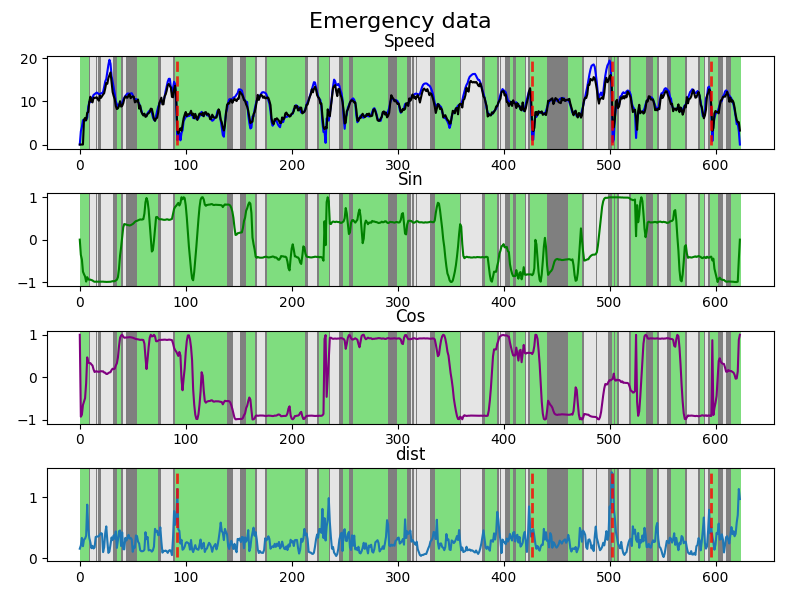
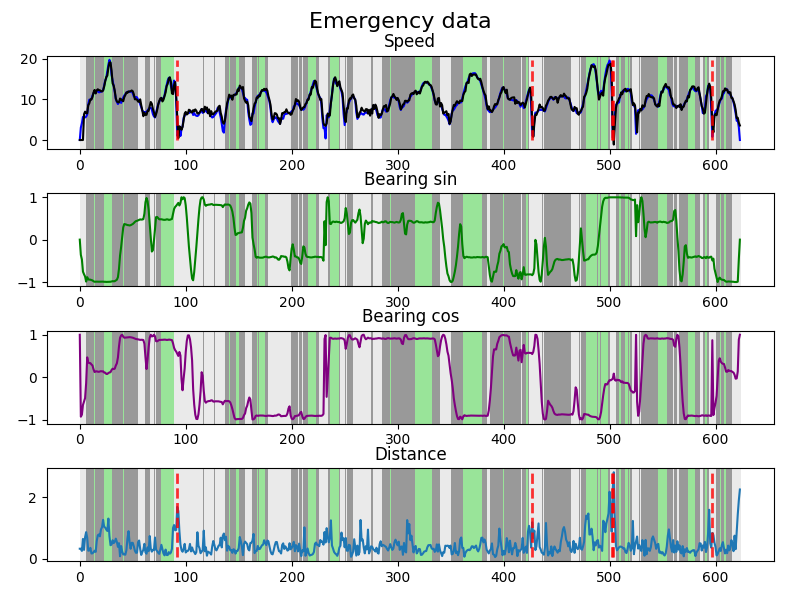
supervised doc

diff --git a/Utils.py b/Utils.py
@@ -19,9 +19,9 @@ def plotCsv(data, title, pred=None, labels=None, dist=None, accident_indexs=None
 
     ax[0].set_title("Speed")
     ax[0].plot(data["Speed"], color="b")
-    ax[1].set_title("Sin")
+    ax[1].set_title("Bearing sin")
     ax[1].plot(np.sin(np.pi * data["Bearing"] / 180.0), color="g")
-    ax[2].set_title("Cos")
+    ax[2].set_title("Bearing cos")
     ax[2].plot(np.cos(np.pi * data["Bearing"] / 180.0), color="purple")
 
     if pred is not None:
@@ -31,14 +31,14 @@ def plotCsv(data, title, pred=None, labels=None, dist=None, accident_indexs=None
 
         colors = cm.nipy_spectral(np.linspace(0, 1, max(labels) + 1))
 
-        ax[3].set_title("dist")
+        ax[3].set_title("Distance")
         ax[3].plot(dist)
 
         for i in range(len(labels)):
-            ax[0].axvspan(i, i + 1, facecolor=colors[labels[i]], alpha=0.5)
-            ax[1].axvspan(i, i + 1, facecolor=colors[labels[i]], alpha=0.5)
-            ax[2].axvspan(i, i + 1, facecolor=colors[labels[i]], alpha=0.5)
-            ax[3].axvspan(i, i + 1, facecolor=colors[labels[i]], alpha=0.5)
+            ax[0].axvspan(i, i + 1, facecolor=colors[labels[i]], alpha=0.4)
+            ax[1].axvspan(i, i + 1, facecolor=colors[labels[i]], alpha=0.4)
+            ax[2].axvspan(i, i + 1, facecolor=colors[labels[i]], alpha=0.4)
+            ax[3].axvspan(i, i + 1, facecolor=colors[labels[i]], alpha=0.4)
 
     if accident_indexs is not None:
         ax[0].vlines(
@@ -58,6 +58,41 @@ def plotCsv(data, title, pred=None, labels=None, dist=None, accident_indexs=None
             linestyles=["dashed"],
             linewidth=2,
             alpha=0.8,
+        )
+
+
+def plotGT(normal_data, emg_data, title, normal_accident, emg_accident):
+
+    f, ax = plt.subplots(2, 1, figsize=(8, 6))
+    f.suptitle(title, fontsize=16)
+
+    f.tight_layout()
+
+    ax[0].set_title("Normal Speed")
+    ax[0].plot(normal_data["Speed"], color="b")
+    ax[1].set_title("Emergency Speed")
+    ax[1].plot(emg_data["Speed"], color="b")
+
+    if normal_accident is not None:
+        ax[0].vlines(
+            normal_accident,
+            ymin=np.min(normal_data["Speed"]),
+            ymax=np.max(normal_data["Speed"]),
+            color="r",
+            linestyles=["dashed"],
+            linewidth=2,
+            alpha=0.9,
+        )
+
+    if emg_accident is not None:
+        ax[1].vlines(
+            emg_accident,
+            ymin=np.min(emg_data["Speed"]),
+            ymax=np.max(emg_data["Speed"]),
+            color="r",
+            linestyles=["dashed"],
+            linewidth=2,
+            alpha=0.9,
         )
 
 

diff --git a/Dataloader.py b/Dataloader.py
@@ -143,7 +143,7 @@ class Unsupervised(data.Dataset):
 
 
 class Supervised(data.Dataset):
-    def __init__(self, data, accidents_index, append_size=2, max_conv_size=7):
+    def __init__(self, data, accidents_index, append_size=2, max_conv_size=7, max_index=550):
         """creates the array to the window sized sampling
 
         Args:
@@ -151,6 +151,7 @@ class Supervised(data.Dataset):
             accidents_index: array with the detected accidents indexs
             append_size: size to 'expand' accident
             max_conv_size (int, optional): window size. Defaults to 7.
+            max_index (int, optional): index where to split the data
 
         """
 
@@ -163,9 +164,9 @@ class Supervised(data.Dataset):
 
         self.conv_size = max_conv_size
 
-        self.speed = np.array(data["Speed"][:550], dtype=float)
-        self.cos = np.cos(np.array(data["Bearing"][:550], dtype=float))
-        self.sin = np.sin(np.array(data["Bearing"][:550], dtype=float))
+        self.speed = np.array(data["Speed"][:max_index], dtype=float)
+        self.cos = np.cos(np.array(data["Bearing"][:max_index], dtype=float))
+        self.sin = np.sin(np.array(data["Bearing"][:max_index], dtype=float))
 
         self.len = len(self.speed)
 

diff --git a/Model.py b/Model.py
@@ -19,8 +19,8 @@ class Traj_enc(nn.Module):
         self.combined_c = nn.Conv1d(30, 40, kernel_size=3)
         self.combined_bn = nn.BatchNorm1d(40)
 
-        self.enc_fc = nn.Linear(40, 10)
-        self.out_bn = nn.BatchNorm1d(10)
+        self.enc_fc = nn.Linear(40, 20)
+        self.out_bn = nn.BatchNorm1d(20)
 
     def forward(self, speed, sin, cos):
         speed = self.speed_c1(speed)
@@ -44,7 +44,6 @@ class Traj_enc(nn.Module):
         combined = combined.view(-1, 40)
         out = self.enc_fc(combined)
         out = self.out_bn(out)
-        # out = self.relu(out)
 
         return out
 
@@ -54,7 +53,7 @@ class Traj_model(nn.Module):
         super(Traj_model, self).__init__()
 
         self.enc = Traj_enc()
-        self.speed_dec_fc1 = nn.Linear(10, 1)
+        self.speed_dec_fc1 = nn.Linear(20, 1)
 
     def forward(self, speed, sin, cos, return_enc=False):
         enc = self.enc(speed, sin, cos)
@@ -75,7 +74,7 @@ class class_model(nn.Module):
         super(class_model, self).__init__()
 
         self.enc = pretrained_model.enc
-        self.class_dec = nn.Linear(10, 1)
+        self.class_dec = nn.Linear(20, 1)
 
     def forward(self, speed, sin, cos):
         out = self.enc(speed, sin, cos)

diff --git a/Train.py b/Train.py
@@ -43,13 +43,23 @@ def train_unsupervised(model, loader, optimizer, device):
 
 
 def train_supervised(pretrained_model, loader, device):
+    """train the model to predict the accidents using the emergency data
+
+    Args:
+        pretrained_model: pre trained model in unsupervised manner.
+        loader: emergency supervised loader
+        device: pytorch device
+
+    Returns:
+        class_model: trained model
+    """
     class_model = Model.class_model(pretrained_model)
     class_model.to(device)
     optimizer = torch.optim.Adam(class_model.parameters())
 
     class_loss = nn.BCELoss(reduce=False)
 
-    for e in range(10):
+    for e in range(8):
         loss_mean = 0
 
         for sample in tqdm(loader):

diff --git a/main.py b/main.py
@@ -68,5 +68,8 @@ if __name__ == "__main__":
 
     # -------------EMERGENCY-------------
     Utils.plotCsv(emg_csv, "Emergency data", pred=emg_pred, labels=emg_labels, dist=emg_dist, accident_indexs=emg_accident_indexs_supervised)
-    Utils.plotCsv(emg_csv, "Emergency data GT", pred=emg_pred, labels=emg_labels, dist=emg_dist, accident_indexs=emg_accident_indexs)
+
+    # -------------GROUND TRUTH-------------
+    Utils.plotGT(normal_csv, emg_csv, "Ground Truth", normal_accident_indexs, emg_accident_indexs)
+
     plt.show()

diff --git a/Classify.py b/Classify.py
@@ -76,6 +76,7 @@ def cluster(normal_enc_features, emg_enc_features):
         normal_dist: KMeans dist to the class centroid for normal data
         emg_dist: KMeans dist to the class centroid for emergency data
     """
+
     features = np.concatenate((normal_enc_features, emg_enc_features))
     kmeans = KMeans(n_clusters=3, random_state=0).fit(features)
 

diff --git a/README.md b/README.md
@@ -48,27 +48,36 @@ If the function value is higher than a certain threshold, it is considered an ac
   <img src="imgs/emg_map.png">
 </p>
 
-## Unsupervised approach
-Since the data wasn't enough data for a supervised approach, I tried to cluster each time step to detect the "accidents".
+## Unsupervised & Supervised approach
 
-The data used was the speed and the sin and cos values from the Bearing angle (all data was from the GPS).
+Unsupervised and supervised methods were compared to the handmade approach. The model was trained to predict the next speed given a window-sized input of the speed and bearing angle in the form of ```sin``` and ```cos``` functions.
 
-The KMeans method (n=3) was able to split the GPS data into stable high speed (white), transition (dark gray), stable or acceleration at low speeds (green).
+This model was then used to cluster the data and to initialize the weights of the supervised model.
 
-To train the model and extract the features:
+The KMeans method (n=3) was able to split the GPS data into stable high speed (green), transition (dark gray), and stable or acceleration at low speeds (white).
+
+For the supervised approach, it was used binary cross entropy with weights 1,6 for the non-accidents and accidents, respectively. Only the first 550 steps of the emergency data was used.
+
+The model is made by a 1D convolutional encoder followed by a couple of fully connected layers.
+
+To train the model, extract the features and classify the accidents:
 ```
 python main.py
 ```
 
-A 1D convolutional neural network is trained to predict the next speed value to generate relevant features. After that, the method KNN-means is applied to the encoder features to classify each sequence step.
+The "accidents" are marked according to the Supervised approach.
 
-The "accidents" are marked according to the Handmade approach.
+Evaluating the centroid distante to the extracted features, it is possible to notice that the "accidents" could'n fit nicely in a specific class, but it is not regular enough to be considered as a good estimate for accident detection.
 
-### Cluster example
+### Output example
 <p align="center">
   <img src="imgs/normal_uns.png">
 </p>
 
 <p align="center">
   <img src="imgs/emg_uns.png">
+</p>
+
+<p align="center">
+  <img src="imgs/gt.png">
 </p>
